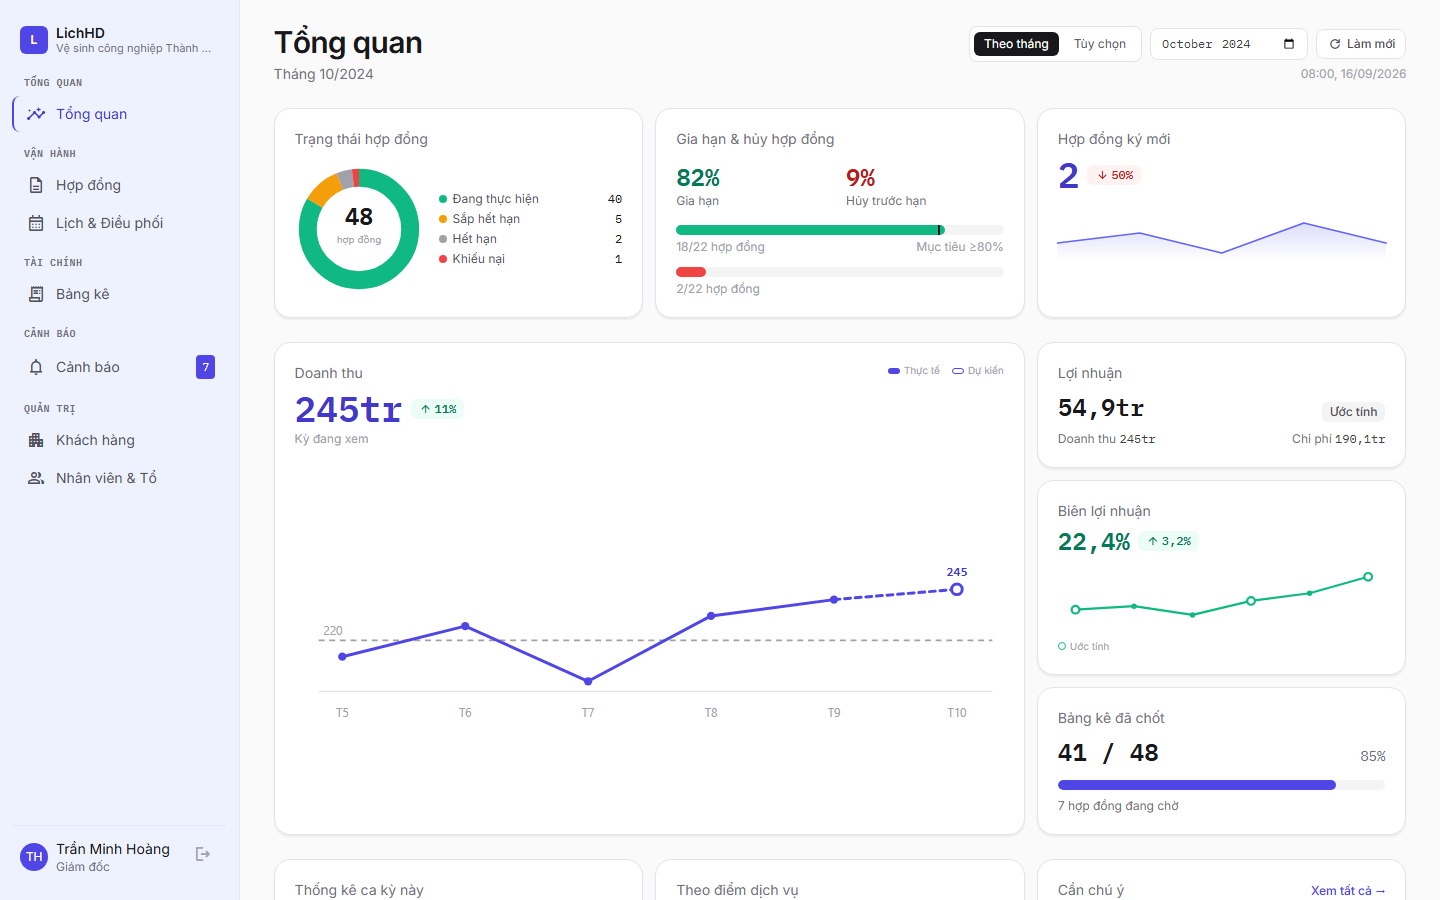
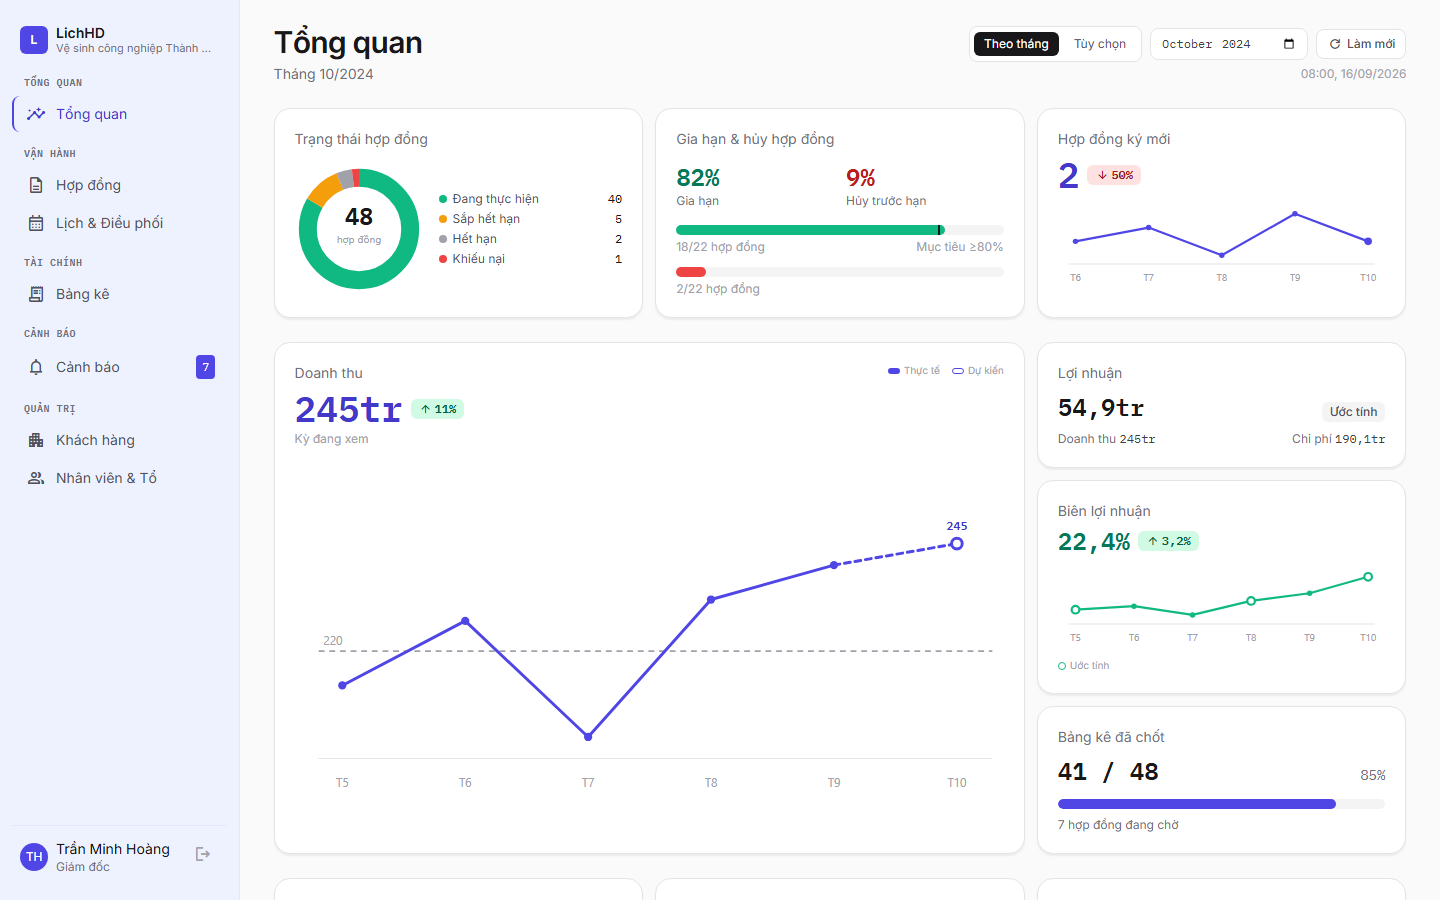
docs: represent frequency in db schema

diff --git a/docs/ui/prototype.html b/docs/ui/prototype.html
@@ -997,39 +997,45 @@ tailwind.config = {
           <div class="sr-only">12 tháng qua có 22 hợp đồng hết hạn: 18 gia hạn đúng hạn (82%, mục tiêu từ 80% trở lên), 2 bị khách hủy giữa chừng (9%), 2 hết hạn không gia hạn.</div>
         </div>
 
-        <!-- New contracts signed — tiêu đề → số KPI + delta chip → sparkline chạm
-             mép dưới card (full-bleed: âm margin bù p-5, card overflow-hidden để bo
-             góc cắt chart). preserveAspectRatio="none" cho chart kéo hết chiều ngang
-             thay vì tự chèn khoảng trắng 2 bên; vector-effect="non-scaling-stroke"
-             giữ nét không bị méo khi kéo. Trailing window theo kỳ đang chọn ở period
-             picker (6 tháng khi xem theo tháng; toàn khoảng from-to khi tùy chọn). -->
-        <div onclick="wfShow('contracts')" class="flex cursor-pointer flex-col overflow-hidden rounded-2xl border border-zinc-200 bg-white p-5 lh-card-shadow hover:border-zinc-300">
+        <!-- New contracts signed — tiêu đề → số KPI + delta chip → line trend.
+             Trailing window theo kỳ đang chọn ở period picker (6 tháng khi xem theo
+             tháng; toàn khoảng from-to khi tùy chọn). -->
+        <div onclick="wfShow('contracts')" class="flex cursor-pointer flex-col rounded-2xl border border-zinc-200 bg-white p-5 lh-card-shadow hover:border-zinc-300">
           <div class="text-sm text-zinc-500">Hợp đồng ký mới</div>
 
-          <!-- Delta badge dùng đúng mẫu badge chuẩn của file (rounded-md, bg-{c}-50,
-               px-2 py-0.5, text-xs font-medium, text-{c}-700) thay vì pill riêng một
-               kiểu; icon Material đồng bộ icon set toàn file, ép 14px cho vừa badge.
-               Căn items-center (không phải baseline) để badge cân giữa cạnh số lớn. -->
+          <!-- Delta badge = biến thể đậm hơn của badge chuẩn: giữ nguyên rounded-md
+               px-2 py-0.5 text-xs, nhưng bg-{c}-100 + text-{c}-800 + font-semibold
+               thay cho bg-50/text-700 của badge trạng thái trong bảng. Lý do: nó
+               đứng ngay cạnh số KPI cỡ lớn, mức tương phản của badge trạng thái bị
+               chìm. Ba delta badge (doanh thu, biên lợi nhuận, hợp đồng mới) dùng
+               chung biến thể này. Icon Material đồng bộ icon set toàn file, ép 14px;
+               căn items-center (không phải baseline) để badge cân giữa cạnh số. -->
           <div class="mt-2 flex items-center gap-2">
             <span class="font-mono text-4xl font-semibold leading-none text-indigo-700">2</span>
-            <span class="inline-flex items-center gap-0.5 rounded-md bg-red-50 px-2 py-0.5 text-xs font-medium text-red-700" title="Giảm 50% so với cùng kỳ trước (4 hợp đồng)">
+            <span class="inline-flex items-center gap-0.5 rounded-md bg-red-100 px-2 py-0.5 text-xs font-semibold text-red-800" title="Giảm 50% so với cùng kỳ trước (4 hợp đồng)">
               <span class="material-symbols-outlined" style="font-size:14px">arrow_downward</span>
               <span class="font-mono">50%</span>
             </span>
           </div>
 
-          <div class="-mx-5 -mb-5 mt-6">
-            <svg viewBox="0 0 300 44" preserveAspectRatio="none" class="block h-11 w-full" aria-hidden="true">
-              <defs>
-                <linearGradient id="lhNewContractsFill" x1="0" y1="0" x2="0" y2="1">
-                  <stop offset="0%" stop-color="#6366f1" stop-opacity="0.22"/>
-                  <stop offset="100%" stop-color="#6366f1" stop-opacity="0"/>
-                </linearGradient>
-              </defs>
-              <path d="M16,26 L83,16 L150,36 L217,6 L284,26 L284,44 L16,44 Z" fill="url(#lhNewContractsFill)"/>
-              <path d="M16,26 L83,16 L150,36 L217,6 L284,26" fill="none" stroke="#6366f1" stroke-width="1.75" stroke-linejoin="round" stroke-linecap="round" vector-effect="non-scaling-stroke"/>
-            </svg>
-          </div>
+          <!-- Cùng kiểu với chart biên lợi nhuận: line trần + marker tròn + baseline
+               + nhãn trục, không gradient fill, không full-bleed. Ba chart nhỏ trên
+               dashboard nhờ đó đọc như một bộ. Marker cuối to hơn = kỳ đang xem. -->
+          <svg viewBox="0 0 300 78" class="mt-3 w-full" preserveAspectRatio="xMidYMid meet">
+            <line x1="10" y1="54" x2="290" y2="54" stroke="#e4e4e7" stroke-width="1"/>
+            <path d="M16,33.3 L83,20.7 L150,46 L217,8 L284,33.3" fill="none" stroke="#4f46e5" stroke-width="2" stroke-linejoin="round" stroke-linecap="round"/>
+            <circle cx="16"  cy="33.3" r="2.5" fill="#4f46e5"/>
+            <circle cx="83"  cy="20.7" r="2.5" fill="#4f46e5"/>
+            <circle cx="150" cy="46"   r="2.5" fill="#4f46e5"/>
+            <circle cx="217" cy="8"    r="2.5" fill="#4f46e5"/>
+            <circle cx="284" cy="33.3" r="3.5" fill="#4f46e5"/>
+
+            <text x="16"  y="70" text-anchor="middle" class="fill-zinc-400" style="font-size:9px;font-family:ui-sans-serif,system-ui,sans-serif">T6</text>
+            <text x="83"  y="70" text-anchor="middle" class="fill-zinc-400" style="font-size:9px;font-family:ui-sans-serif,system-ui,sans-serif">T7</text>
+            <text x="150" y="70" text-anchor="middle" class="fill-zinc-400" style="font-size:9px;font-family:ui-sans-serif,system-ui,sans-serif">T8</text>
+            <text x="217" y="70" text-anchor="middle" class="fill-zinc-400" style="font-size:9px;font-family:ui-sans-serif,system-ui,sans-serif">T9</text>
+            <text x="284" y="70" text-anchor="middle" class="fill-zinc-400" style="font-size:9px;font-family:ui-sans-serif,system-ui,sans-serif">T10</text>
+          </svg>
           <div class="sr-only">Hợp đồng ký mới kỳ đang xem: 2 hợp đồng, giảm 50% so với cùng kỳ trước (4 hợp đồng). Xu hướng theo kỳ đang chọn: tháng 6 có 2, tháng 7 có 3, tháng 8 có 1, tháng 9 có 4, tháng 10 có 2.</div>
         </div>
 
@@ -1055,7 +1061,7 @@ tailwind.config = {
               <div class="text-sm text-zinc-500">Doanh thu</div>
               <div class="mt-2 flex items-center gap-2">
                 <span class="font-mono text-4xl font-semibold leading-none text-indigo-700">245tr</span>
-                <span class="inline-flex items-center gap-0.5 rounded-md bg-emerald-50 px-2 py-0.5 text-xs font-medium text-emerald-700" title="Vượt kế hoạch 220 triệu">
+                <span class="inline-flex items-center gap-0.5 rounded-md bg-emerald-100 px-2 py-0.5 text-xs font-semibold text-emerald-800" title="Vượt kế hoạch 220 triệu">
                   <span class="material-symbols-outlined" style="font-size:14px">arrow_upward</span>
                   <span class="font-mono">11%</span>
                 </span>
@@ -1068,26 +1074,32 @@ tailwind.config = {
             </div>
           </div>
 
-          <svg viewBox="0 0 600 150" class="mt-4 w-full flex-1" preserveAspectRatio="xMidYMid meet">
-            <line x1="20" y1="120" x2="590" y2="120" stroke="#e4e4e7" stroke-width="1"/>
-            <line x1="20" y1="76.8" x2="590" y2="76.8" stroke="#a1a1aa" stroke-width="1.5" stroke-dasharray="5,4"/>
-            <text x="24" y="72" class="fill-zinc-400" style="font-size:10px;font-family:ui-sans-serif,system-ui,sans-serif">220</text>
-            <path d="M40,90.6 L144,64.7 L248,111.4 L352,56.1 L456,42.3" fill="none" stroke="#4f46e5" stroke-width="2.5" stroke-linejoin="round" stroke-linecap="round"/>
-            <path d="M456,42.3 L560,33.6" fill="none" stroke="#4f46e5" stroke-width="2.5" stroke-dasharray="5,4" stroke-linecap="round"/>
-            <circle cx="40"  cy="90.6"  r="3.5" fill="#4f46e5"/>
-            <circle cx="144" cy="64.7"  r="3.5" fill="#4f46e5"/>
-            <circle cx="248" cy="111.4" r="3.5" fill="#4f46e5"/>
-            <circle cx="352" cy="56.1"  r="3.5" fill="#4f46e5"/>
-            <circle cx="456" cy="42.3"  r="3.5" fill="#4f46e5"/>
-            <circle cx="560" cy="33.6"  r="4.5" fill="white" stroke="#4f46e5" stroke-width="2.5"/>
-            <text x="560" y="22" text-anchor="middle" class="fill-indigo-700" style="font-size:11px;font-weight:600;font-family:ui-monospace,monospace">245</text>
+          <!-- Bỏ flex-1: hàng lưới bị cột phải (3 card xếp chồng) kéo cao, flex-1
+               làm khung SVG cao theo nhưng preserveAspectRatio="meet" vẫn giữ tỉ lệ
+               nội dung nên chart chỉ nằm lọt giữa một vùng trắng lớn. Thay bằng
+               viewBox cao hơn (600x290, tỉ lệ ~2:1 thay vì 4:1) để chart tự chiếm
+               gần hết chiều cao hàng bằng chính tỉ lệ của nó — cao thật, không phải
+               bị kéo giãn hay bị đẩy chỗ. -->
+          <svg viewBox="0 0 600 290" class="mt-4 w-full" preserveAspectRatio="xMidYMid meet">
+            <line x1="20" y1="250" x2="590" y2="250" stroke="#e4e4e7" stroke-width="1"/>
+            <line x1="20" y1="159.1" x2="590" y2="159.1" stroke="#a1a1aa" stroke-width="1.5" stroke-dasharray="5,4"/>
+            <text x="24" y="154" class="fill-zinc-400" style="font-size:10px;font-family:ui-sans-serif,system-ui,sans-serif">220</text>
+            <path d="M40,188.2 L144,133.6 L248,231.8 L352,115.5 L456,86.4" fill="none" stroke="#4f46e5" stroke-width="2.5" stroke-linejoin="round" stroke-linecap="round"/>
+            <path d="M456,86.4 L560,68.2" fill="none" stroke="#4f46e5" stroke-width="2.5" stroke-dasharray="5,4" stroke-linecap="round"/>
+            <circle cx="40"  cy="188.2" r="3.5" fill="#4f46e5"/>
+            <circle cx="144" cy="133.6" r="3.5" fill="#4f46e5"/>
+            <circle cx="248" cy="231.8" r="3.5" fill="#4f46e5"/>
+            <circle cx="352" cy="115.5" r="3.5" fill="#4f46e5"/>
+            <circle cx="456" cy="86.4" r="3.5" fill="#4f46e5"/>
+            <circle cx="560" cy="68.2" r="4.5" fill="white" stroke="#4f46e5" stroke-width="2.5"/>
+            <text x="560" y="57" text-anchor="middle" class="fill-indigo-700" style="font-size:11px;font-weight:600;font-family:ui-monospace,monospace">245</text>
 
-            <text x="40"  y="142" text-anchor="middle" class="fill-zinc-400" style="font-size:10px;font-family:ui-sans-serif,system-ui,sans-serif">T5</text>
-            <text x="144" y="142" text-anchor="middle" class="fill-zinc-400" style="font-size:10px;font-family:ui-sans-serif,system-ui,sans-serif">T6</text>
-            <text x="248" y="142" text-anchor="middle" class="fill-zinc-400" style="font-size:10px;font-family:ui-sans-serif,system-ui,sans-serif">T7</text>
-            <text x="352" y="142" text-anchor="middle" class="fill-zinc-400" style="font-size:10px;font-family:ui-sans-serif,system-ui,sans-serif">T8</text>
-            <text x="456" y="142" text-anchor="middle" class="fill-zinc-400" style="font-size:10px;font-family:ui-sans-serif,system-ui,sans-serif">T9</text>
-            <text x="560" y="142" text-anchor="middle" class="fill-zinc-400" style="font-size:10px;font-family:ui-sans-serif,system-ui,sans-serif">T10</text>
+            <text x="40"  y="274" text-anchor="middle" class="fill-zinc-400" style="font-size:10px;font-family:ui-sans-serif,system-ui,sans-serif">T5</text>
+            <text x="144" y="274" text-anchor="middle" class="fill-zinc-400" style="font-size:10px;font-family:ui-sans-serif,system-ui,sans-serif">T6</text>
+            <text x="248" y="274" text-anchor="middle" class="fill-zinc-400" style="font-size:10px;font-family:ui-sans-serif,system-ui,sans-serif">T7</text>
+            <text x="352" y="274" text-anchor="middle" class="fill-zinc-400" style="font-size:10px;font-family:ui-sans-serif,system-ui,sans-serif">T8</text>
+            <text x="456" y="274" text-anchor="middle" class="fill-zinc-400" style="font-size:10px;font-family:ui-sans-serif,system-ui,sans-serif">T9</text>
+            <text x="560" y="274" text-anchor="middle" class="fill-zinc-400" style="font-size:10px;font-family:ui-sans-serif,system-ui,sans-serif">T10</text>
           </svg>
           <div class="sr-only">Doanh thu theo kỳ: tháng 5 khoảng 212 triệu, tháng 6 227 triệu, tháng 7 200 triệu, tháng 8 232 triệu, tháng 9 240 triệu, tháng 10 dự kiến 245 triệu, vượt kế hoạch 220 triệu 11%.</div>
         </div>
@@ -1115,12 +1127,15 @@ tailwind.config = {
             <div class="text-sm text-zinc-500">Biên lợi nhuận</div>
             <div class="mt-2 flex items-center gap-2">
               <span class="font-mono text-2xl font-semibold leading-none text-emerald-700">22,4%</span>
-              <span class="inline-flex items-center gap-0.5 rounded-md bg-emerald-50 px-2 py-0.5 text-xs font-medium text-emerald-700" title="Tăng 3,2 điểm so với cùng kỳ trước">
+              <span class="inline-flex items-center gap-0.5 rounded-md bg-emerald-100 px-2 py-0.5 text-xs font-semibold text-emerald-800" title="Tăng 3,2 điểm so với cùng kỳ trước">
                 <span class="material-symbols-outlined" style="font-size:14px">arrow_upward</span>
                 <span class="font-mono">3,2%</span>
               </span>
             </div>
-            <svg viewBox="0 0 300 60" class="mt-3 w-full flex-1" preserveAspectRatio="xMidYMid meet">
+            <!-- Cùng mốc trục tháng với chart doanh thu bên cạnh: 2 chart đọc song
+                 song theo cặp nên thiếu nhãn ở một bên là line trôi không neo được. -->
+            <svg viewBox="0 0 300 78" class="mt-3 w-full" preserveAspectRatio="xMidYMid meet">
+              <line x1="10" y1="54" x2="290" y2="54" stroke="#e4e4e7" stroke-width="1"/>
               <path d="M16,40.9 L69.6,37.7 L123.2,45.7 L176.8,32.9 L230.4,25.9 L284,10.8" fill="none" stroke="#10b981" stroke-width="2" stroke-linejoin="round" stroke-linecap="round"/>
               <circle cx="16"    cy="40.9" r="3.5" fill="white" stroke="#10b981" stroke-width="2"/>
               <circle cx="69.6"  cy="37.7" r="2.5" fill="#10b981"/>
@@ -1128,6 +1143,13 @@ tailwind.config = {
               <circle cx="176.8" cy="32.9" r="3.5" fill="white" stroke="#10b981" stroke-width="2"/>
               <circle cx="230.4" cy="25.9" r="2.5" fill="#10b981"/>
               <circle cx="284"   cy="10.8" r="3.5" fill="white" stroke="#10b981" stroke-width="2"/>
+
+              <text x="16"    y="70" text-anchor="middle" class="fill-zinc-400" style="font-size:9px;font-family:ui-sans-serif,system-ui,sans-serif">T5</text>
+              <text x="69.6"  y="70" text-anchor="middle" class="fill-zinc-400" style="font-size:9px;font-family:ui-sans-serif,system-ui,sans-serif">T6</text>
+              <text x="123.2" y="70" text-anchor="middle" class="fill-zinc-400" style="font-size:9px;font-family:ui-sans-serif,system-ui,sans-serif">T7</text>
+              <text x="176.8" y="70" text-anchor="middle" class="fill-zinc-400" style="font-size:9px;font-family:ui-sans-serif,system-ui,sans-serif">T8</text>
+              <text x="230.4" y="70" text-anchor="middle" class="fill-zinc-400" style="font-size:9px;font-family:ui-sans-serif,system-ui,sans-serif">T9</text>
+              <text x="284"   y="70" text-anchor="middle" class="fill-zinc-400" style="font-size:9px;font-family:ui-sans-serif,system-ui,sans-serif">T10</text>
             </svg>
             <div class="mt-2 flex items-center gap-1 text-[10px] text-zinc-400">
               <span class="inline-block h-2 w-2 rounded-full border border-emerald-500 bg-white"></span>

diff --git a/docs/05-api.md b/docs/05-api.md
@@ -95,16 +95,22 @@ evidence ([`04-architecture.md`](04-architecture.md#82-evidence-integrity-and-re
 | PATCH | `/contracts/{id}` | Update term or status. **Director only.** |
 | DELETE | `/contracts/{id}` | Cascades to sites, items, shifts, photos, statements. **Director only.** |
 | POST | `/contracts/{id}/sites` · PATCH · DELETE `/sites/{siteId}` | Sites. Update and delete are Director only. |
-| POST | `/sites/{siteId}/items` · PATCH · DELETE `/items/{itemId}` | Service items — `name`, `frequency`, `unit_price`. Update and delete are Director only. |
+| POST | `/sites/{siteId}/items` · PATCH · DELETE `/items/{itemId}` | Service items — `name`, `frequency_count`, `frequency_unit`, `frequency_rule` (optional), `unit_price`. Update and delete are Director only. |
 
-`POST /contracts` returns `400` with `contract.item_invalid` when an item is missing a frequency or
-carries a non-positive `unit_price`, matching the `alt validation failed` branch of sequence 1.
+`POST /contracts` returns `400` with `contract.item_invalid` when an item is missing `frequency_count`/
+`frequency_unit` or carries a non-positive `unit_price`, matching the `alt validation failed` branch of
+sequence 1.
 
 ### 3.1 Schedule generation — FR4
 
-Creating a contract generates `shifts` for every item across the term from the item's `frequency`.
-Frequency currently has **no grammar** — see [`04-architecture.md`](04-architecture.md#11-risks-and-technical-debt) R2;
-this endpoint cannot be finished until that is resolved.
+Creating a contract generates `shifts` for every item across the term from `frequency_count` occurrences
+per `frequency_unit` — both are structured fields (integer, and an enum backed by the `frequency_units`
+lookup table), not free text, so the generator never has to parse anything to find the cadence
+(resolves [`04-architecture.md`](04-architecture.md#11-risks-and-technical-debt) R2). `frequency_rule` is
+a separate, optional free-text field for the exact agreed placement (e.g. "thứ 7 hàng tuần") when the
+contract specifies one; real agreements vary too much to force into a fixed grammar, so it is kept as a
+note for staff and is not parsed — the generator schedules off count/unit alone, and a director can move
+individual shifts afterward to match the rule.
 
 | Method | Path | Purpose |
 |---|---|---|
@@ -244,11 +250,10 @@ there is nothing to add.
 
 | Code | Status | Returned when | `details` |
 |---|---|---|---|
-| `contract.item_invalid` | 400 | An item is missing `frequency` or carries a non-positive `unit_price` — sequence 1's `alt validation failed`. | `items[]` with the offending index and field |
+| `contract.item_invalid` | 400 | An item is missing `frequency_count`/`frequency_unit` or carries a non-positive `unit_price` — sequence 1's `alt validation failed`. | `items[]` with the offending index and field |
 | `contract.term_invalid` | 400 | `expires_at` is not after `signed_at`. | `signed_at`, `expires_at` |
 | `contract.customer_not_found` | 400 | `customer_id` names no customer. | `customer_id` |
-| `contract.frequency_unparsable` | 422 | `frequency` does not match the generator's grammar — blocked on [`04-architecture.md`](04-architecture.md#11-risks-and-technical-debt) R2. | `item_id`, `frequency` |
-| `schedule.no_shifts_generated` | 422 | The frequency parses but yields no occurrence inside the term. | `item_id` |
+| `schedule.no_shifts_generated` | 422 | `frequency_count`/`frequency_unit` yield no occurrence inside the term. | `item_id` |
 | `schedule.regenerate_blocked` | 409 | Regeneration would move a completed or disputed shift. | `shift_ids[]` |
 
 ### Shifts and evidence

diff --git a/docs/04-architecture.md b/docs/04-architecture.md
@@ -357,7 +357,7 @@ is chosen.
 | # | Risk | Impact | Likelihood | Mitigation |
 |---|---|---|---|---|
 | R1 | **Stack not yet selected.** Everything in §5.1 is stated as criteria rather than a name. | Blocks estimation, hiring, and turns §7's deployment view from concrete to hypothetical | High — certain until decided | Decide before sprint planning or committing a delivery date |
-| R2 | **`contract_items.frequency` has no grammar.** `VARCHAR(100)` free text, yet FR4's generator must parse it to produce shifts. This is a **schema risk**, not only a documentation gap. | High — blocks FR4, the schedule generator, entirely | High | Define a frequency grammar (e.g. `2/month`) or a lookup table with an explicit interval before the generator is designed further |
+| R2 | **Resolved.** `contract_items.frequency` (`VARCHAR(100)` free text) is split into `frequency_count` (integer) and `frequency_unit_id` (FK to a `frequency_units` lookup) — both structured, so FR4's generator schedules off them directly with no parsing. A separate `frequency_rule` stays free text for the exact agreed placement when one exists (e.g. "thứ 7 hàng tuần"); real contracts negotiate placements too varied to fix into a grammar, so it is kept as a staff-facing note only and is never parsed — a director moves individual shifts by hand to match it. | — | — | Implemented in [`db/schema.sql`](db/schema.sql) |
 | R3 | **Schedule generation timing undecided** — eager on contract creation, or a rolling job that keeps a horizon filled | Medium — affects term-change cost and initial contract-creation latency | Medium | Default to eager, as seq. 1 implies; revisit if term changes prove frequent |
 | R4 | **Weak-network mechanics undecided** — resumable upload, offline queue, retry policy | High — QR1 cannot be verified without this | Medium | Design before the field page is built; §8.4 states the goal only |
 | R5 | **ZNS sender identity, template registration and fallback order undecided** | Medium — blocks FR14; ZNS templates need registration lead time | Medium | Register ZNS templates early — an external dependency, independent of the stack decision |
